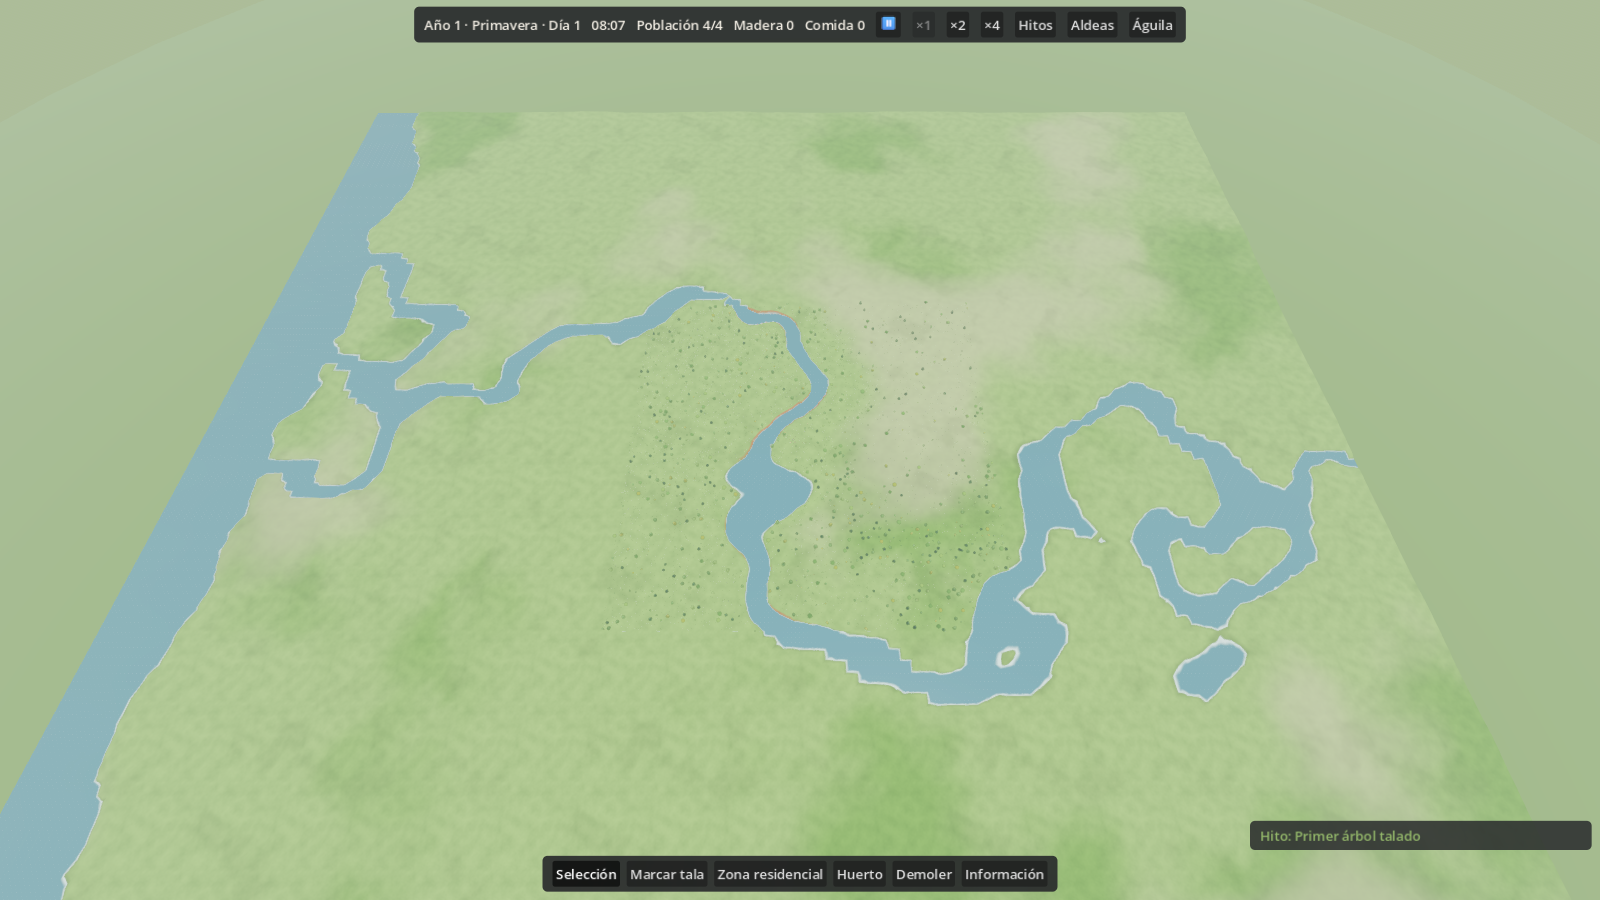
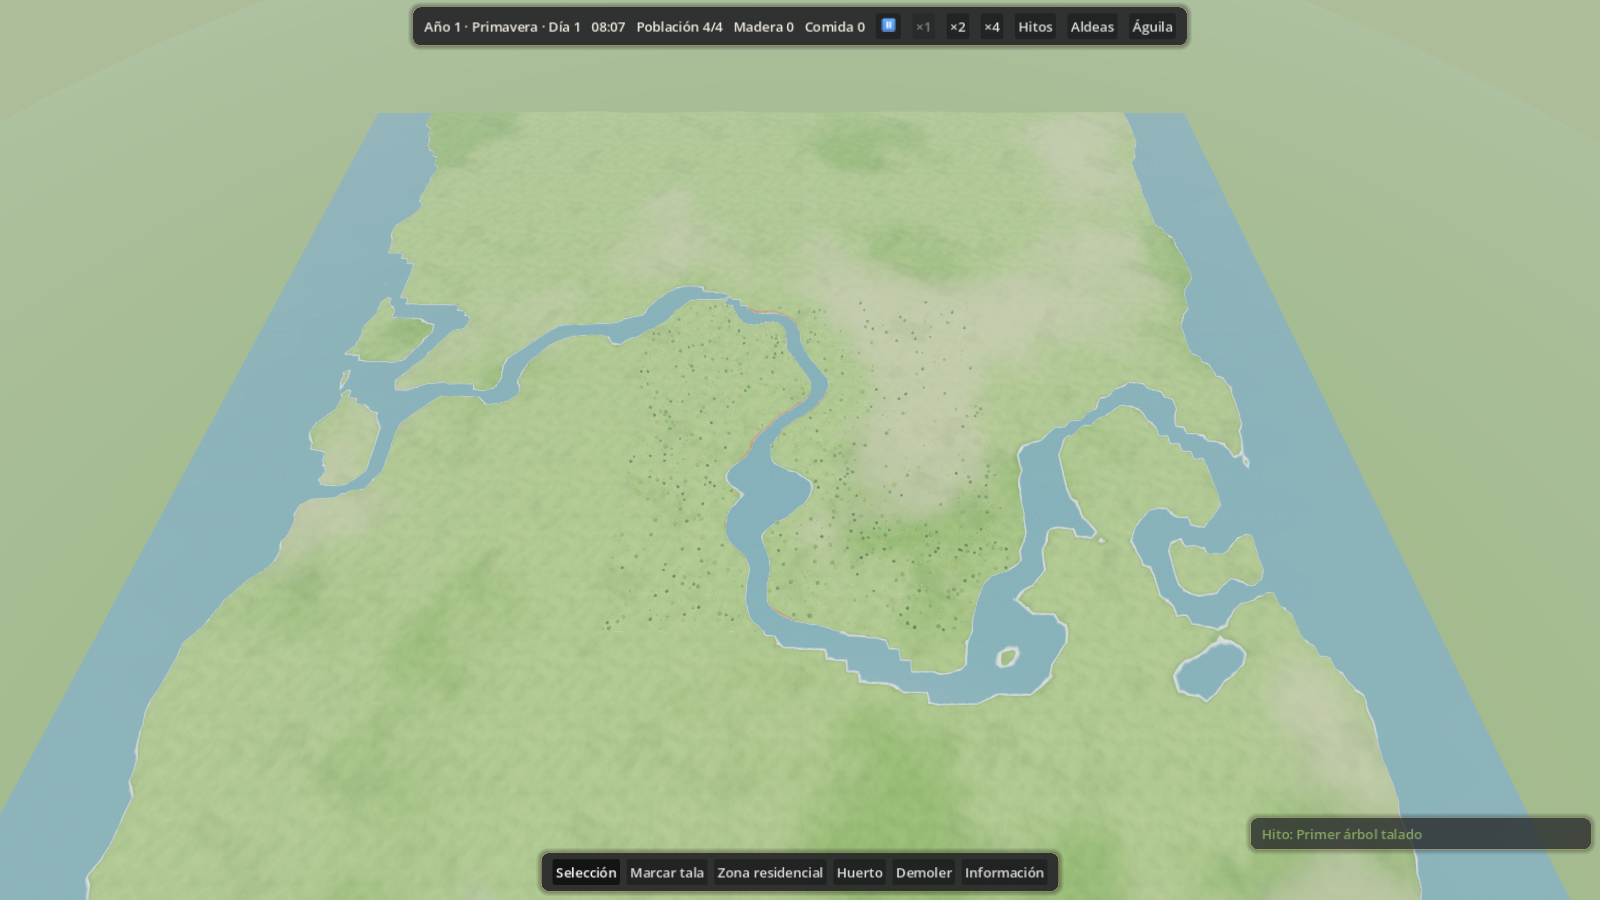
feat(tecnologia+relieve): sin herramientas al inicio, crafteo, montanas
PROGRESION DE HERRAMIENTAS (orden del dueno «empiezan sin armas ni nada»):
- Los colonos nacen SIN herramientas: el trabajo manual (talar, construir,
  cultivar, acarrear) cuesta un 25 por ciento mas a mano pelada.
- StateCraft: lo primero que hace un colono es sentarse junto a SU hoguera
  y tallarse las primeras herramientas rudimentarias (7 s, material suelto
  del entorno). Al terminar: toast, su herramienta de oficio APARECE a la
  espalda (antes no hay nada que colgar) y recupera velocidad.
- Los recien llegados traen sus herramientas; los guardados viejos tambien
  (clave tools, default true al cargar).
- Minas, picos, DESCUBRIR METALES y recursos DISTINTOS por bioma (armas y
  ropa diferentes entre biomas): registrado para Build 004 en la orden.

ROPA POR BIOMA (v1 de culturas):
- CampEntity.cloth_tint(): las aldeas del mismo bioma visten del mismo
  pano (bosque verdoso, ribera azulada, colinas parda, pradera calida);
  el color personal varia dentro del pano. Ciudades lejanas en biomas
  distintos se distinguen de un vistazo.

RELIEVE:
- MONTANAS procedurales: macizos raros de gran amplitud (hasta ~18 m) por
  semilla, con ROCA por altura en la ladera y NIEVE PERMANENTE en la cima
  (shader), linea de arboles a 8 m. Nucleos = murallas naturales.
- MAR mas presente: bordes al 50 por ciento, costa que penetra 105±48 m.

UI: paneles con borde de brasa, esquinas redondeadas y sombra suave.

Ajustes de tests: altura acotada 18, suelo 0.6 CON utiles (0.45 solo a
[…]

diff --git a/docs/BUILD_003_ORDER.md b/docs/BUILD_003_ORDER.md
@@ -315,6 +315,23 @@ al principio decide cuánto tarda ese destino.
   recetas crece con el rango. Los aldeanos SIEMPRE tienen algo mejor que
   construir a medida que la ciudad sube de nivel.
 
+## Tecnología: de manos peladas a metales (orden del dueño 2026-07-16)
+
+- **HECHO (v1)**: los colonos nacen SIN herramientas (trabajo manual ×0.75)
+  y se TALLAN sus primeras herramientas rudimentarias junto a la hoguera
+  (StateCraft, tiempo — material suelto del entorno); al terminar, su
+  herramienta de oficio aparece a la espalda y recuperan velocidad. Los
+  recién llegados traen las suyas; los guardados viejos también.
+- **SIGUIENTE (Build 004)**: MINAS — vetas de piedra/mineral por bioma como
+  entidades cosechables (patrón TreeEntity), oficio minero, picos; DESCUBRIR
+  METALES (cobre → hierro) que aceleran más el trabajo y abren armas/
+  herramientas mejores. RECURSOS POR BIOMA: cada bioma da materiales
+  distintos (madera dura del bosque, juncos y arcilla de ribera, piedra y
+  mineral de colinas/montaña, tintes del claro) → armas, ropa y edificios
+  DISTINTOS por bioma. Ciudades de biomas lejanos se ven diferentes;
+  ciudades del mismo bioma visten parecido (v1 YA: tinte de ropa por bioma
+  en cloth_tint()). Enchufa con culturas (S5) y biomas extremos (004).
+
 ## Camas y BUEN DISEÑO de todo (orden del dueño 2026-07-16)
 
 - **Camas/petates SIEMPRE presentes**: quien duerma al raso junto a la hoguera